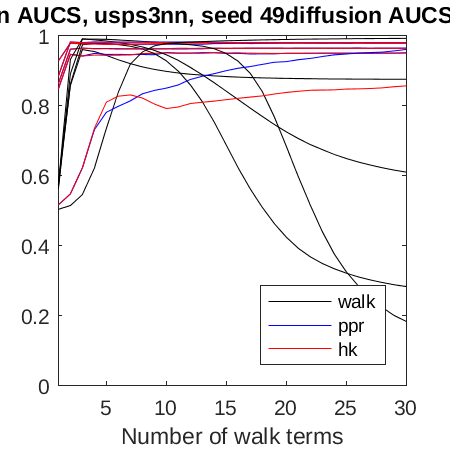
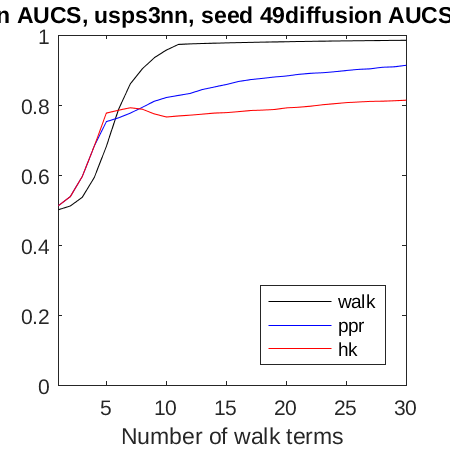
Fixed a plotting bug, re-generated preliminar images for AUC experiment

diff --git a/experiments/AUC_of_diffusions/AUC_of_diffusions.m b/experiments/AUC_of_diffusions/AUC_of_diffusions.m
@@ -3,6 +3,8 @@ function AUC_of_diffusions( varargin )
 %i
 % p.addOptional('fname','netscience-cc');
 
+clf;
+
 p = inputParser;
 p.addOptional('fname','senate');
 p.parse(varargin{:});
